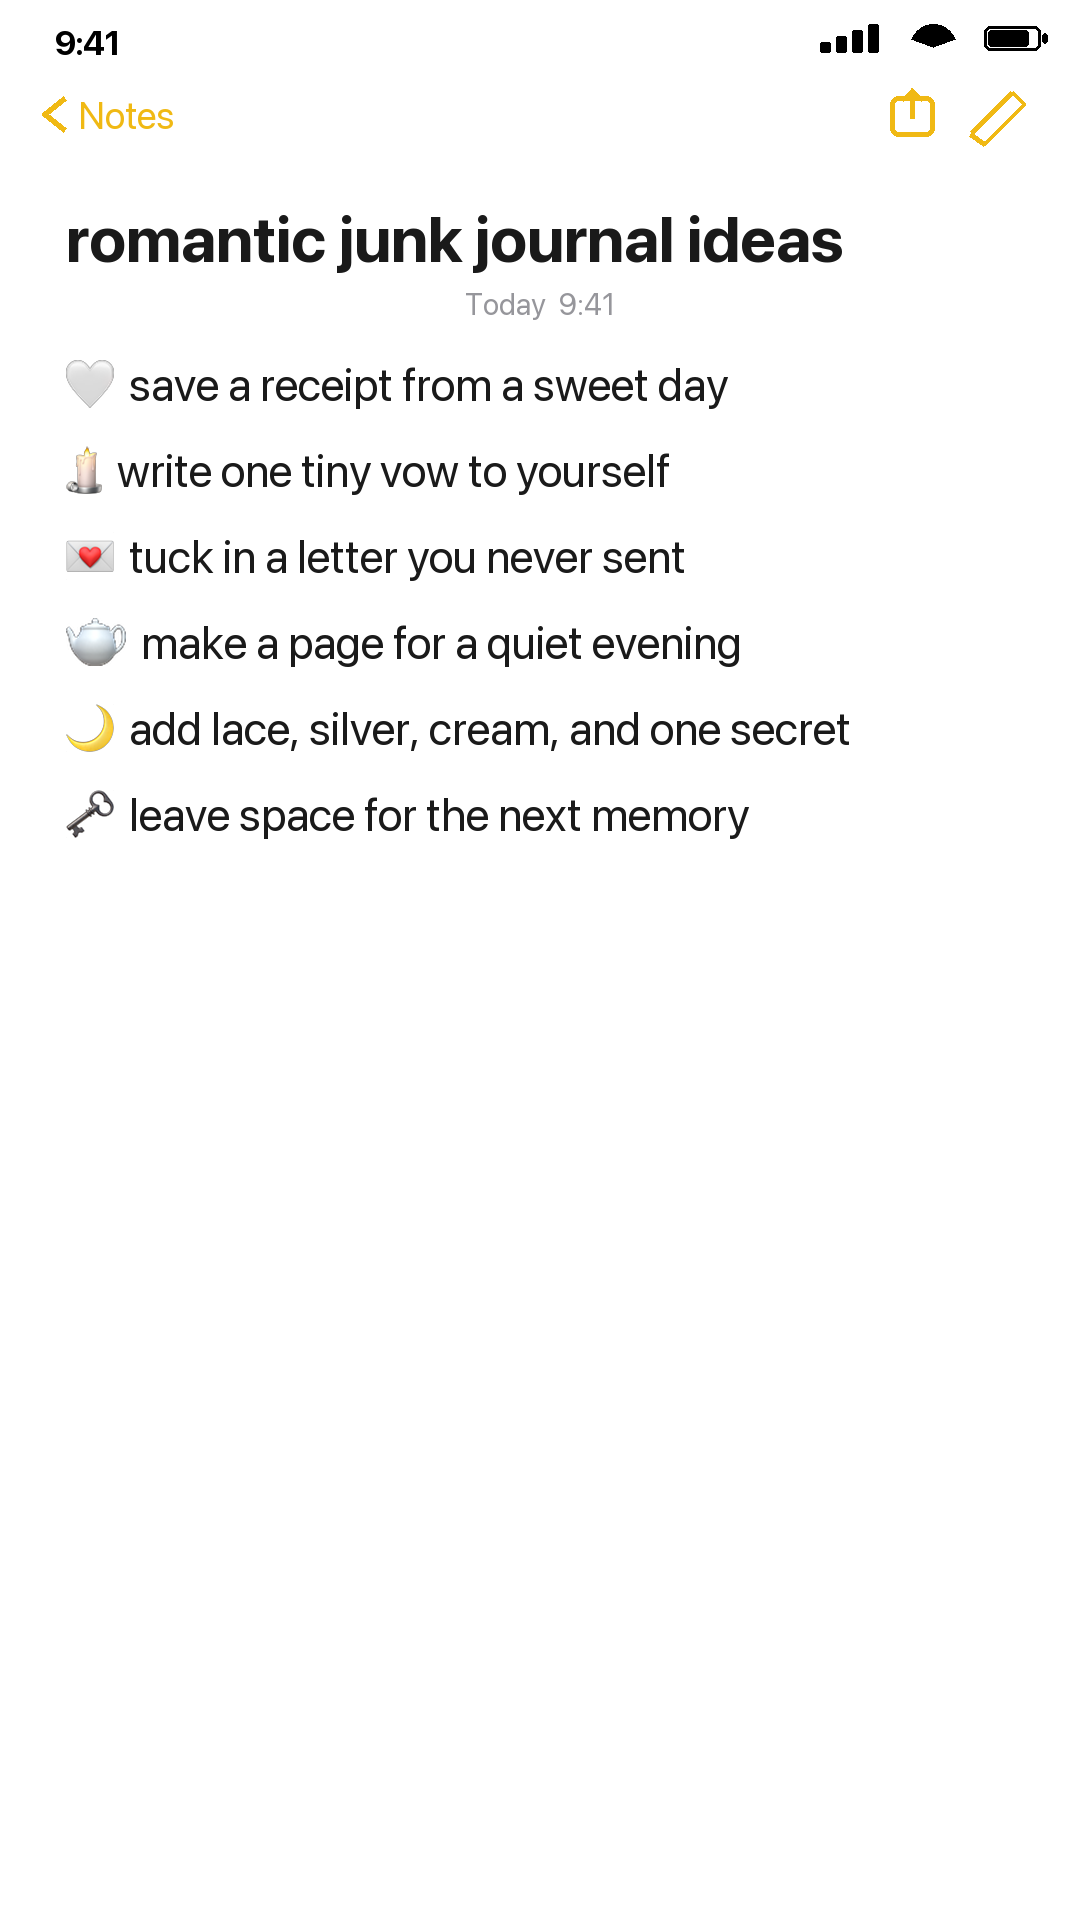
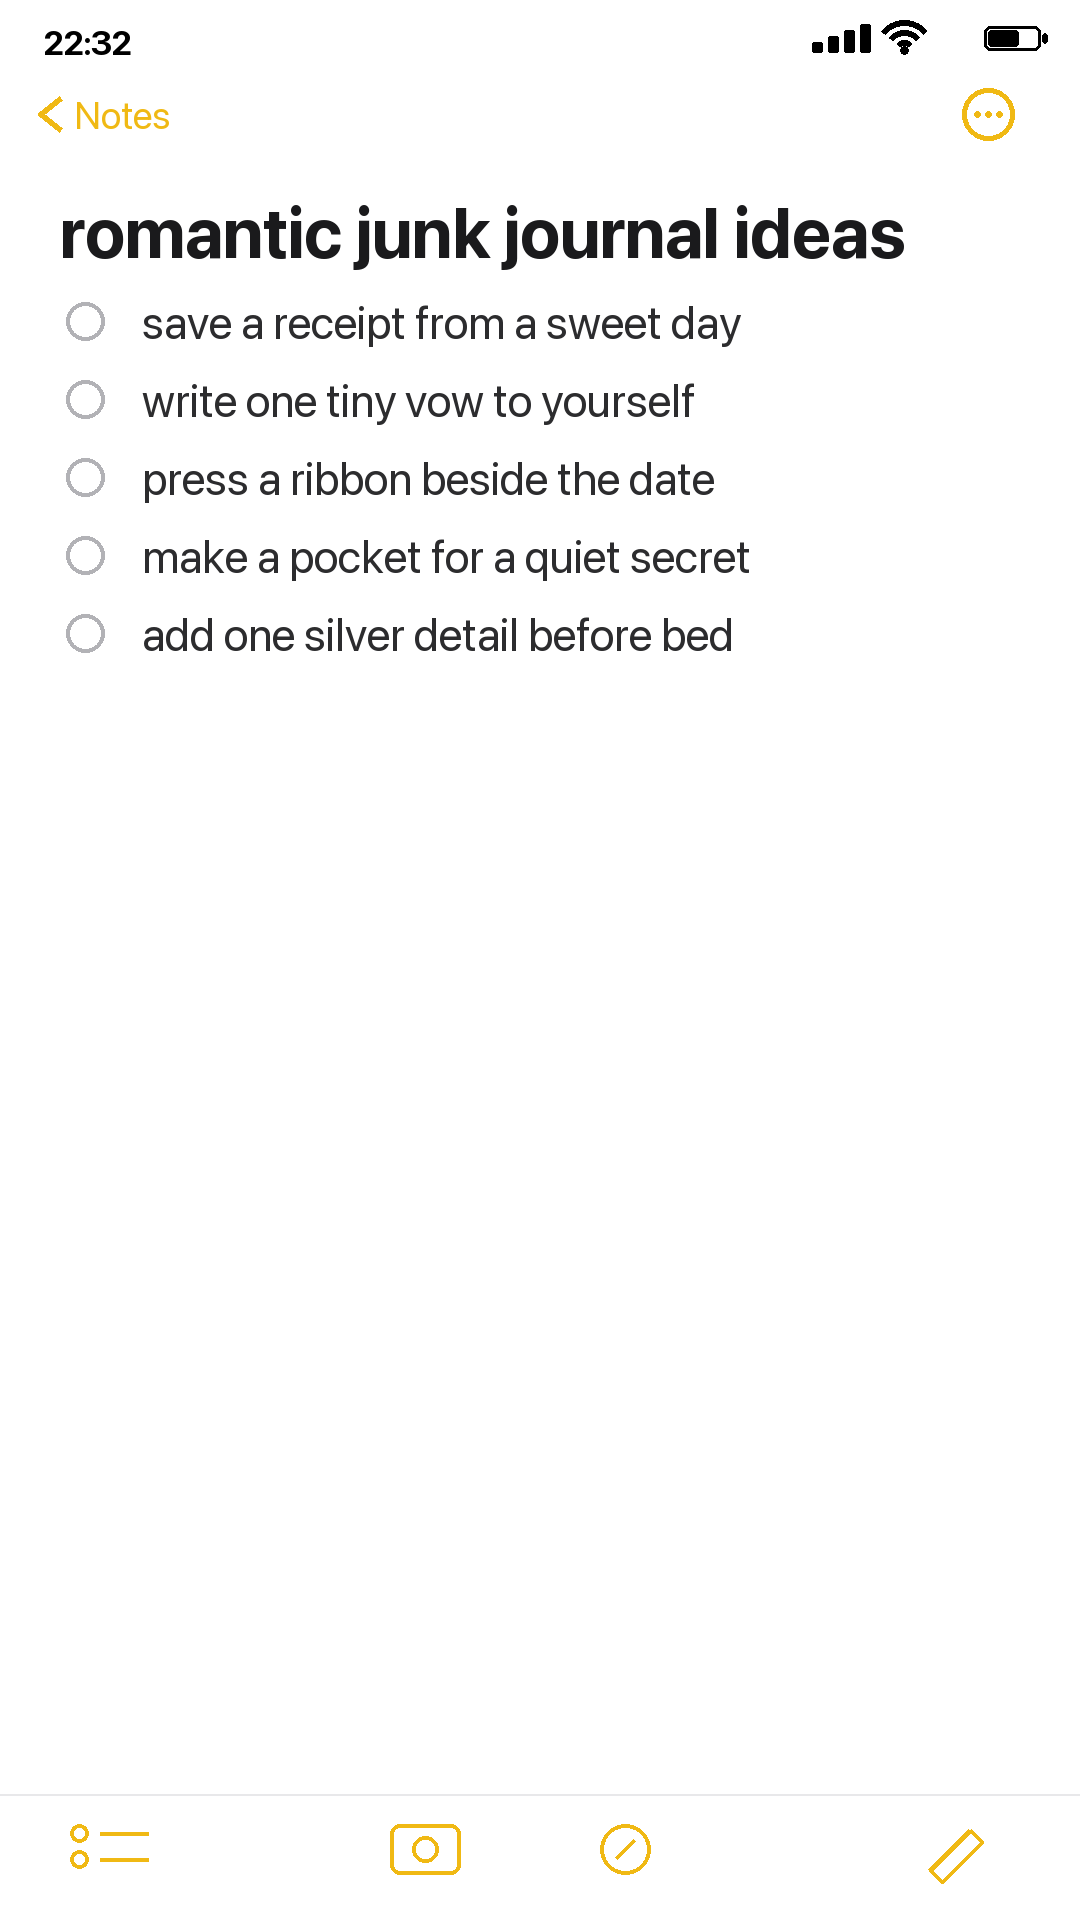
Fix iPhone Notes infographic bullet style

diff --git a/public/blog/romantic-junk-journal-ideas-for-a-quiet-evening.html b/public/blog/romantic-junk-journal-ideas-for-a-quiet-evening.html
@@ -50,7 +50,7 @@
 
 <p>This is the kind of page that does not need a perfect plan. It only needs a feeling: silver light, old letters, a ribbon end, the soft edge of lace, a receipt from a day you still want to remember. Romantic journaling works best when it feels collected rather than arranged.</p>
 
-<img src="img/romantic-junk-journal-ideas-for-a-quiet-evening/iphone-notes-romantic-journal.png" alt="iPhone Notes style list of romantic junk journal ideas with emoji">
+<img src="img/romantic-junk-journal-ideas-for-a-quiet-evening/iphone-notes-romantic-journal.png" alt="iPhone Notes style checklist of romantic junk journal ideas">
 
 <h2>Begin with the smallest keepsake</h2>
 

diff --git a/tools/render_iphone_notes.py b/tools/render_iphone_notes.py
@@ -2,9 +2,10 @@
 """Render an AUTHENTIC iPhone Notes screenshot as a Pinterest infographic.
 
 Ksenia's refs (refs/iphone notes/): a real iOS Notes note — status bar, "< Notes"
-nav, bold title (may hold 1-2 emoji), a small EMOJI CLUSTER row under the title,
-then list items as CHECKBOX CIRCLES or DASHES with plain text. Emoji may TRAIL an
-item, but NEVER lead every bullet. Bottom iOS toolbar. Natural, not overdesigned.
+nav, bold title (may hold 1-2 emoji), optional small EMOJI CLUSTER row under the
+title, then list items as CHECKBOX CIRCLES or DASHES with plain text. Emoji may
+trail or sit inside an item, but NEVER start a bullet line. Bottom iOS toolbar.
+Natural, not overdesigned.
 
 Usage:
   python tools/render_iphone_notes.py --title "journal ideas 💖" \
@@ -71,6 +72,19 @@ def _tokens(text):
     if buf:
         out.append(("t", buf))
     return out
+
+
+def _strip_leading_emoji_bullet(text):
+    """Remove emoji-as-bullet prefixes while preserving inline/trailing emoji."""
+    s = text.lstrip()
+    changed = True
+    while changed and s:
+        changed = False
+        toks = _tokens(s)
+        if toks and toks[0][0] == "e":
+            s = s[len(toks[0][1]):].lstrip(" \t-–—•·.:)")
+            changed = True
+    return s
 
 
 def draw_rich(d, canvas, xy, text, fnt, fill, emoji_size=None):
@@ -169,6 +183,7 @@ def render(title, lines, out, emojis="", bullet="circle", dark=False):
     bf = font(46)
     tx = x0 + 82  # text start after the bullet marker
     for line in lines:
+        line = _strip_leading_emoji_bullet(line)
         segs = _wrap(d, line, bf, W - tx - x0)
         # bullet marker on the first wrapped segment
         if bullet == "dash":

diff --git a/.codex/skills/article/SKILL.md b/.codex/skills/article/SKILL.md
@@ -75,11 +75,13 @@ PY = /Users/kseniateter/sentimentalica-pipeline/.venv/bin/python
   (it LOOKS at the file): PASS or REGENERATE with a concrete prompt fix
   (max 2 rounds).
 - **Generated ≠ product (anti-misleading):** illustrative generations are either
-  clearly PHOTOGRAPHIC (scene/mockup) or clearly GRAPHIC (diagram/"5 ideas"
-  infographic) — never artwork in the listing's watercolor style. Scenes must
-  NOT depict the listing's subject (no dogs in a dog-pack article, no cats in a
-  cat one) — environment only: desk, paper, light, objects. Anything that could
-  be mistaken for a page from the set is banned.
+  clearly PHOTOGRAPHIC (atmospheric scene / realistic scrapbook-journal scene /
+  mockup) or clearly GRAPHIC (diagram/"5 ideas" infographic / iPhone Notes list
+  from `refs/iphone notes/`, with no emoji at the start of list items)
+  — never artwork in the listing's watercolor style. Scenes must NOT depict the
+  listing's subject (no dogs in a dog-pack article, no cats in a cat one) —
+  environment/process only: desk, journal, paper, light, tools. Anything that
+  could be mistaken for a page from the set is banned.
 - **The article is built FOR Pinterest**: every block is a future pin. Images
   must be either stunning or useful (infographic-style). Pure listing ads are
   banned — value first.
@@ -87,7 +89,10 @@ PY = /Users/kseniateter/sentimentalica-pipeline/.venv/bin/python
   `<div class="kit-carousel">` with >=3 REAL kit pages (pageN.jpg from the customer folder — NEVER Etsy thumbnails; arrows+dots auto-added). All in-article imagery must be Pinterest-beautiful AND make sense in the flow.
 - **An image for EVERY numbered point** (6 ways = 6 images): real pages/crops
   or generated scenes. People look, they don't read.
-- **NEVER prompt scissors, hands, fingers, or people** in scenes — classic AI slop; the default negative bans them, do not override.
+- **Hands/scissors/partial girl are allowed only in realistic reference-backed
+  journal scenes:** use `refs/scrapbook and junk jornal scenes/` as the bar.
+  In atmospheric scenes avoid them by default. Bad hands/fingers/tools =
+  REGENERATE.
 - **Article thumbnail must NEVER equal the Etsy cover** — after generation run
   `python3 tools/set_article_thumb.py <slug> gen2.jpg` (mockup scene as the
   marketing thumb; if SD failed, any pageN/imgN except img1).

diff --git a/refs/README.md b/refs/README.md
@@ -30,11 +30,13 @@ Default infographic rule:
 
 Special recurring subtype:
 - **iPhone Notes infographic**: a graphic that looks authentically like a real
-  iPhone Notes screenshot/list, with casual emoji/checkmarks/short lines.
+  iPhone Notes screenshot/list, with check circles/dashes and short natural
+  lines. Do **not** use emoji as the first character of list items; emoji can
+  appear inside or after a line only when the reference makes it feel authentic.
   This is the only infographic mode that may deliberately NOT look like the
   branded paper-collage style. It should feel natural, not overdesigned.
-  Put these refs in `refs/infographics/` and name them with `iphone-notes`
-  when possible, or create `refs/infographics/iphone-notes/`.
+  Put these refs in Ksenia's folder `refs/iphone notes/` first. Legacy/extra
+  refs may also live in `refs/infographics/iphone-notes/`.
 
 ## 3. refs/scrapbook and junk jornal scenes/ — realistic journal/scrapbook scenes
 This folder is what we previously called "mockup" direction. These are realistic
@@ -74,5 +76,6 @@ If the 50-things list has its own exact reference, put it here.
 ---
 ### Naming recap
 Theme-in-filename for scenes (so the agent picks the right one per desire).
-For iPhone Notes refs, include `iphone-notes` in the filename. More realistic
-journal/scrapbook scenes = better. Branding refs define the global look.
+For iPhone Notes refs, use `refs/iphone notes/` and include `iphone-notes` in
+the filename when possible. More realistic journal/scrapbook scenes = better.
+Branding refs define the global look.

diff --git a/.codex/README.md b/.codex/README.md
@@ -40,12 +40,20 @@ Required shared tools:
 
 - The critic is a code gate. `publish_post.py` blocks without every generated
   image PASS in `staging/overnight/critic/<slug>.json`.
-- References are files in `refs/`, never word descriptions.
+- References are files in `refs/`, never word descriptions:
+  `refs/branding/` for global Sentimentalica identity and logo blue,
+  `refs/infographics/` for useful graphics,
+  `refs/iphone notes/` for the authentic iPhone Notes subtype (no emoji at the
+  start of list items),
+  `refs/scrapbook and junk jornal scenes/` for realistic journal/mockup/process,
+  `refs/scenes/` for atmospheric mood, `refs/50things/` for that exact format.
 - Product-language accuracy is absolute.
 - On-theme only; no off-theme animals.
 - Only LIVE listings.
 - Neutral/listicle articles are value-first; products belong at the end.
 - Listicles require full infographics in Ksenia's reference style.
+- Hands/scissors/partial girl are allowed only in realistic reference-backed
+  journal scenes; bad hands/fingers/tools still fail image critic.
 
 ## Commands
 

diff --git a/ARTICLE_FUNCTION.md b/ARTICLE_FUNCTION.md
@@ -80,8 +80,8 @@
   пересказом в SCENE_STYLE.md. Пустая релевантная папка = агент слепой.
   Типы refs:
   `refs/branding/` = общий Sentimentalica look (голубой логотипа, бумажность,
-  bird/logo мотивы); `refs/infographics/` = полезные графики + iPhone Notes
-  subtype; `refs/scrapbook and junk jornal scenes/` = реалистичные journal/mockup/
+  bird/logo мотивы); `refs/infographics/` = полезные графики; `refs/iphone notes/`
+  = authentic iPhone Notes subtype; `refs/scrapbook and junk jornal scenes/` = реалистичные journal/mockup/
   process сцены; `refs/scenes/` = атмосферные комнаты/столы/офисы; `refs/50things/`
   = спец-референс для 50 things.
 - **Никаких котов/собак в чужих темах; фото животного в нейтральной статье =
@@ -91,8 +91,9 @@
   инфографику (`render_list_infographic.py` или будущий renderer), но стиль
   теперь определяется `refs/infographics/` + `refs/branding/`: полезная структура
   должна быть переделана в Sentimentalica look. Исключение — iPhone Notes
-  инфографика: она должна выглядеть как настоящая заметка в айфоне с эмодзи/
-  чеклистом, натурально и не overdesigned.
+  инфографика: она должна выглядеть как настоящая заметка в айфоне по
+  `refs/iphone notes/`, натурально и не overdesigned. Emoji НЕ используются как
+  маркеры в начале пунктов; если нужны, только внутри/в конце строки и умеренно.
 - **image-critic смотрит ВСЁ визуальное перед публикацией** — не только
   SD-генерации, но и рендеренную графику (инфографики, палитры-карточки,
   мокапы). Ничто не публикуется без его PASS. Нарушение этого шага — причина

diff --git a/SCENE_STYLE.md b/SCENE_STYLE.md
@@ -22,8 +22,10 @@
    как штамп, кружево, woven/paper-cut detail.
 2. **Infographic / useful pin** → `refs/infographics/` + `refs/branding/`.
    По умолчанию берём структуру полезной картинки и переделываем под branding.
-   Исключение: **iPhone Notes** формат — должен выглядеть как настоящая заметка
-   в айфоне с эмодзи/чеклистом/короткими строками, натурально и не "дизайнерски".
+   Исключение: **iPhone Notes** формат → `refs/iphone notes/`: должен выглядеть
+   как настоящая заметка в айфоне с короткими строками и check circles/dashes,
+   натурально и не "дизайнерски". Emoji не ставятся в начале пунктов как bullet;
+   только внутри/в конце строки, если это выглядит как в референсе.
 3. **Scrapbook / junk journal realistic scene** →
    `refs/scrapbook and junk jornal scenes/`. Это бывший "mockup": реалистичный
    журнал, разворот, руки/девушка частично в кадре, процесс, ножницы/инструменты

diff --git a/.codex/skills/write-article/SKILL.md b/.codex/skills/write-article/SKILL.md
@@ -47,6 +47,11 @@ in publish_post.py (publish is blocked without every image PASS). Then
 `plan_io.mark_published(slug)`.
 Lead-magnet/neutral rows: pure value, product at the END only, every image
 illustrates its adjacent paragraph. On-theme listings only — never off-theme animals.
+Visual refs are typed: `refs/branding/` = global Sentimentalica look,
+`refs/infographics/` = useful graphics, `refs/iphone notes/` = authentic
+iPhone Notes subtype with no emoji at the start of list items,
+`refs/scrapbook and junk jornal scenes/` = realistic journal/mockup/process,
+`refs/scenes/` = atmospheric mood.
 
 ## 6. Pins → CSV (MANDATORY finale of every article — do not skip)
 After each article is live, invoke the **pinterest-seo** agent on it: it writes

diff --git a/AGENTS.md b/AGENTS.md
@@ -19,7 +19,8 @@ Owner: Ksenia. She dictates visual taste; agents execute. Tool is chosen LAST.
   - `.claude/skills/` — `article`, `write-article`, `listing-content`, `content-cycle`.
   - `refs/` — **Ksenia's reference images (GROUND TRUTH)**:
     `branding/` (global Sentimentalica look + logo blue), `infographics/`
-    (useful/list graphics + iPhone Notes subtype), `scrapbook and junk jornal scenes/`
+    (useful/list graphics), `iphone notes/` (authentic iPhone Notes subtype),
+    `scrapbook and junk jornal scenes/`
     (realistic journal/mockup/process scenes), `scenes/` (atmospheric mood),
     `50things/`.
   - `content_plan.xlsx` — idea bank + used-ledger (Sheet 'Plan'). Read with openpyxl; pick an